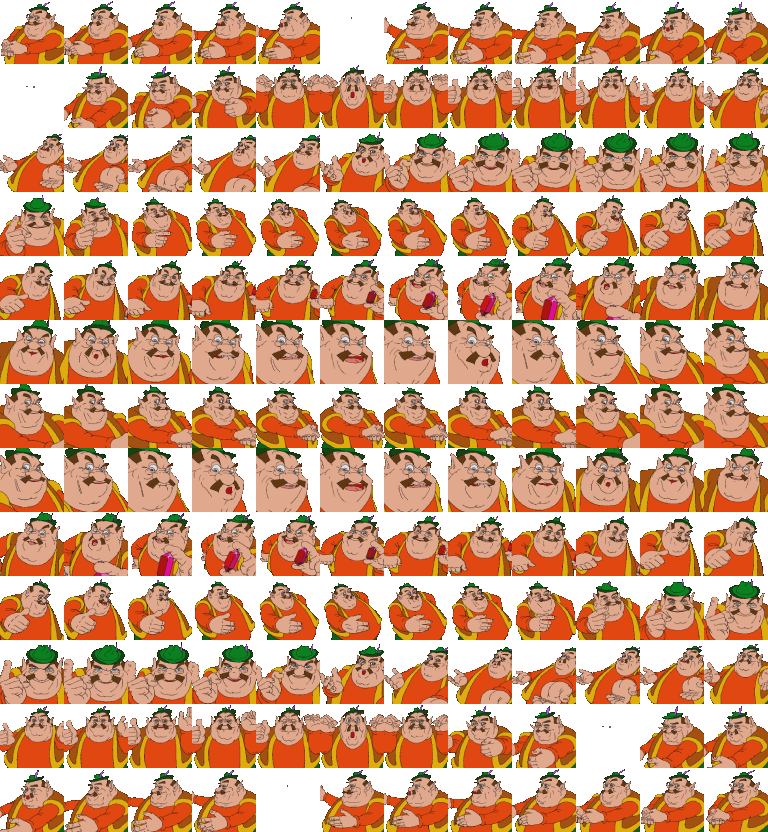
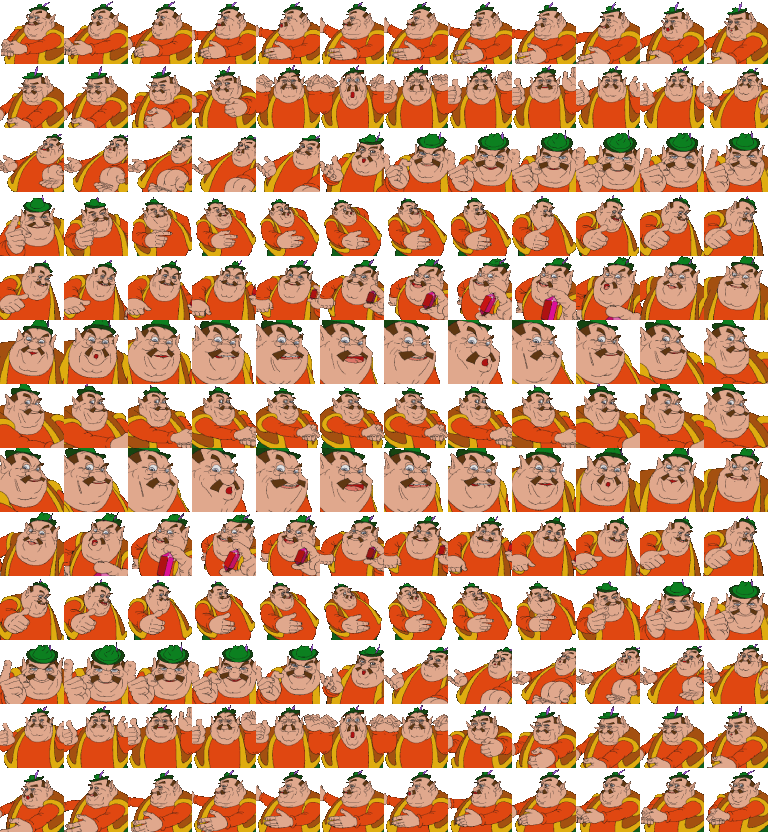
Close dialog when moving too far, make work with multiple entities

diff --git a/gimp_make_spritesheet.py b/gimp_make_spritesheet.py
@@ -1,0 +1,4 @@
+img = gimp.image_list()[0]
+for y in range(13):
+  for x in range(12):
+    img.layers[y * 12 + x].set_offsets(x * 64, y * 64)
